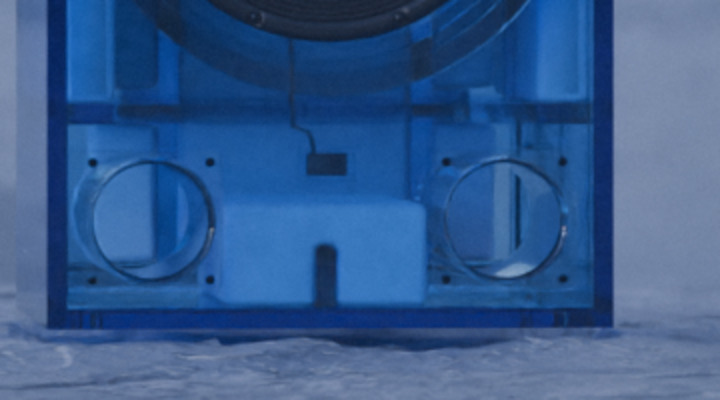
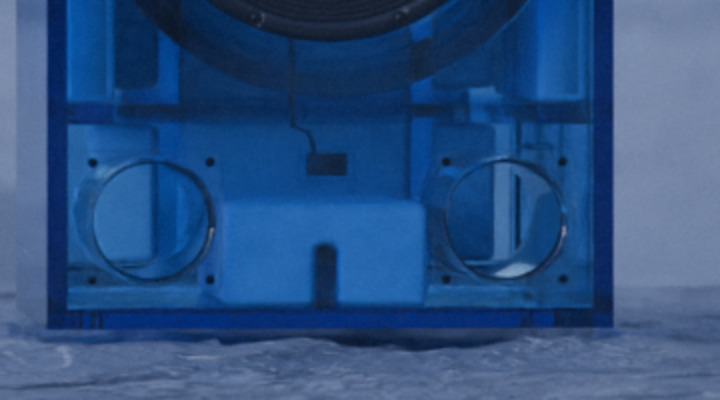
biomes: Ice re-rendered with real cards out of frame (replaces 27911a44), the gate: all four PASS; A/B -0.15 EV from the real flag
Claude-Session: https://claude.ai/code/session_01BAaPTnGwdpP4WKGVD3vbqx

diff --git a/renders/2026-11-03/barkhorn/habitats/CHECK.md b/renders/2026-11-03/barkhorn/habitats/CHECK.md
@@ -21,8 +21,8 @@ Withdrawn:
 | Habitat | see_through | grounded | no_light_down | smooth_horn | Notes |
 |---|---|---|---|---|---|
 | Dust (polished) | PASS | PASS | PASS | PASS | Sand bounce 0.35, no tumbleweed, 64 samples. Amber-red acrylic: the woofer, ring, braces, ports, crossover box, its screws and the desert behind show through. The rail sits on the ripples: luma 81 under the front edge against 107 for open sand. The contact shadow is weak. The red patch is the tinted shadow. The horn is a smooth glassy shell, with the driver showing as a smooth bulb and no X. |
-| Ice (polished) | PASS | PASS | PASS | PASS | Bedded 22 mm, 64 samples. The woofer, ring, braces, ports and posts show through the front, and the cabin window shows through the side. The bottom batt is clearly in view (`ice-portrait-batt-crop.jpg`, 2x). A dark contact band: luma 108 under the base against 121-123 for open snow. No glow. The horn is a smooth glassy shell with the driver at its throat and no X. |
 | Ember (polished, turned) | PASS | PASS | PASS | PASS | rotate_z 12 (10 deg off the camera line), crack_r 2.0, camera at 0.8 m, 96 samples. Crease 8.3 / 4.3, left and right of the driver (`flare.py`; Dust 7.8, Ice 7.2): the sky wedge is gone. The 12 o'clock ring glint is gone (red max 233 -> 62). The woofer, braces and ports show through, and the lava through the side. Contact: luma 12 under the base against 26 beside it. |
 | Acid (polished, 4 deg off) | PASS | PASS | PASS | PASS | rotate_z -8, sink 0.03 (18 mm into the puddle), 64 samples. Crease 5.9 / 10.8 (Dust 7.8, Ice 7.2; it was 26.7 at 28 deg off). The woofer, frames, braces, ports, posts and screws show through. The reflection starts at the base edge. The horn is smooth, with very faint creases invisible at phone size. |
 | Fog (polished, reframed, real cards) | PASS | PASS | PASS | PASS | Camera 0.30 m lower (lens rise 0.18), azimuth -10, f/4. rotate_z -5 (5 deg off; at 20 deg off the side face read as a cream sheet, see held/). The sun neutral white at 110. Real flag and card: the sun-side card left out, the other out of frame at 2.2 m. 96 samples. Crease 1.9 / 2.3 (Dust 7.8, Ice 7.2): the whole horn on plain sky. The left cut-edge strip is still warm, b* median 9.7 (p90 17.2) against the sky's -3.6; the target was 5 or less. Clear: the woofer, braces, posts, ports and the terminal block, with the grass and rock behind, show through. |
 | Haze (polished, sun front side, real cards) | PASS | PASS | PASS | PASS | Sun 70, 6 deg up, the HDRI turned to 338.8, the set's sun disk at 70 (all out of frame). rotate_z -10 (5 deg off), lens rise -0.13, a 4 x 3 m real flag, the sun-side card left out and the other out of frame at 2.6 m. 96 samples. Upper box max channel 47.5 (target 45-60). Horn to box 2.8x. Horn and box hue both 239. Crease 6.1 / 7.3. The woofer, ring, braces, ports and the block show through the front, and the hills through the side. |
+| Ice (polished, real cards) | PASS | PASS | PASS | PASS | It replaces 27911a44, whose reflect-only cards sat in the frame (11.1 %). Real flag and cards out of frame (1.8 / 2.4 m). The A/B against 27911a44 (`ice-ab-glossy-vs-real-cards.jpg`): speaker mean change 11.4, p95 26, largest 40 px block 24.2. The whole scene is about -0.15 EV (speaker 72.5 -> 64.7, snow 119.8 -> 111.2, sky unchanged), because the real 8 x 6 m flag and the card block part of the sky dome that lights Ice. The batt is still clearly in view. |
